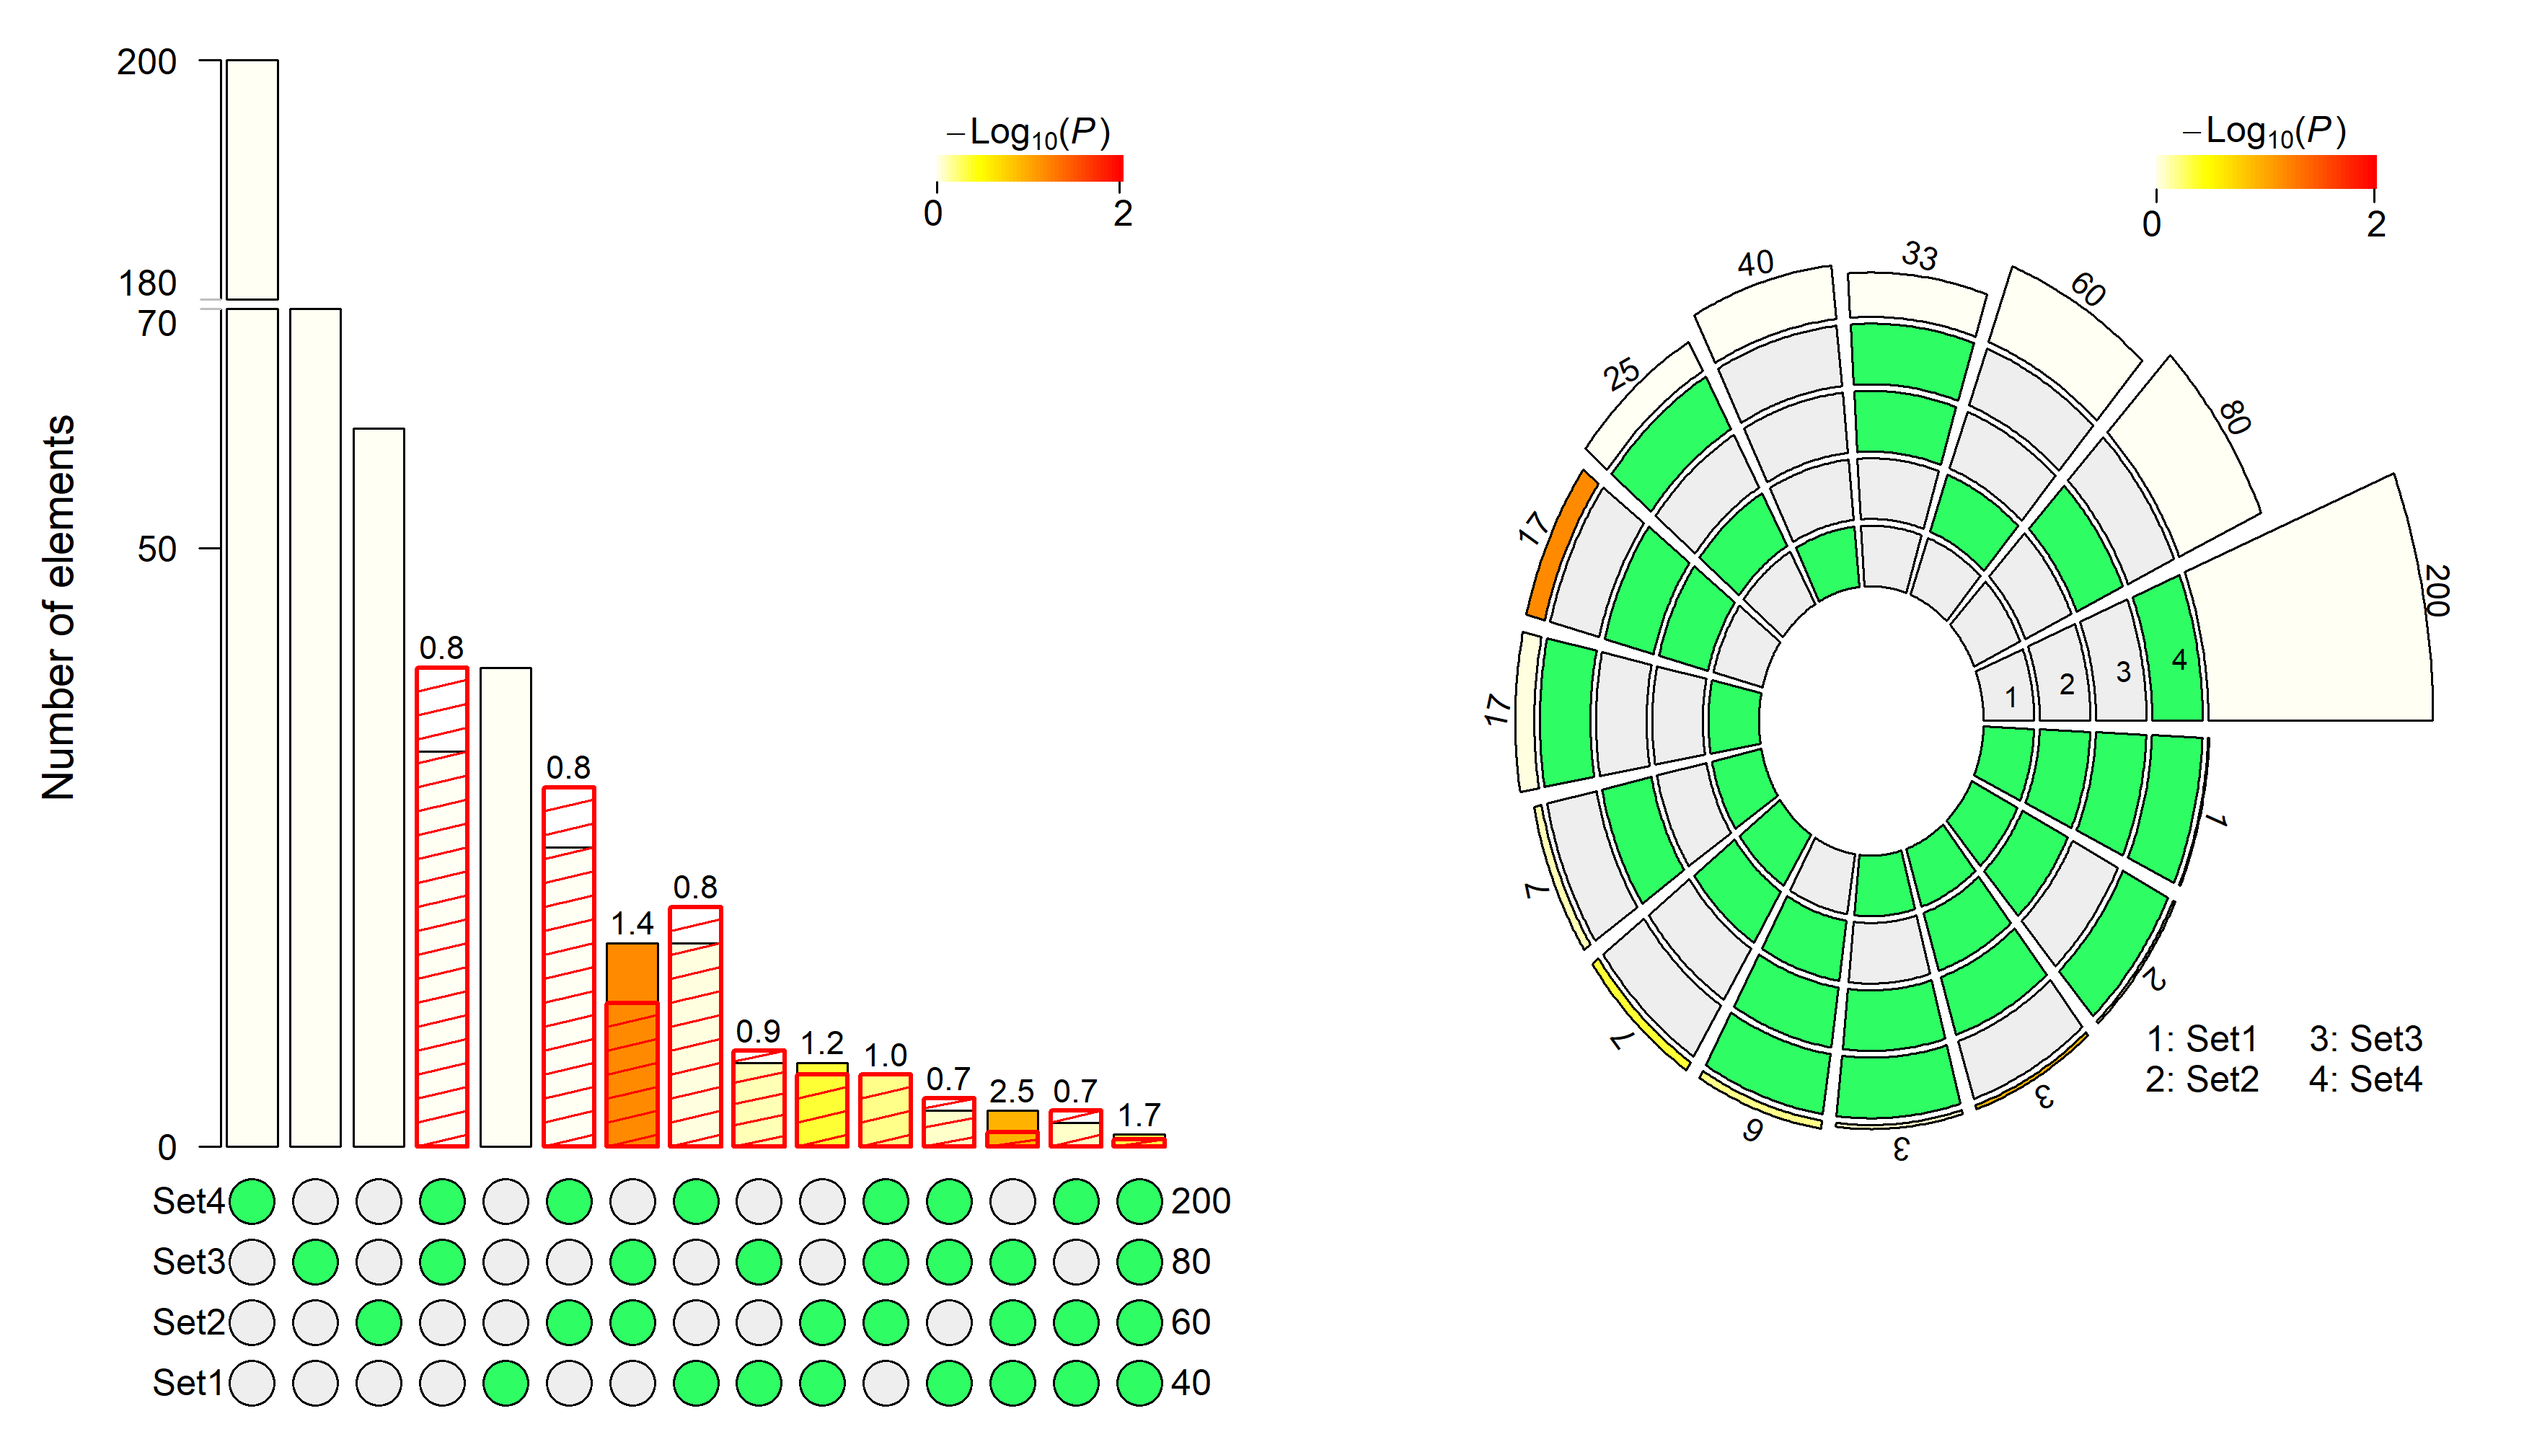
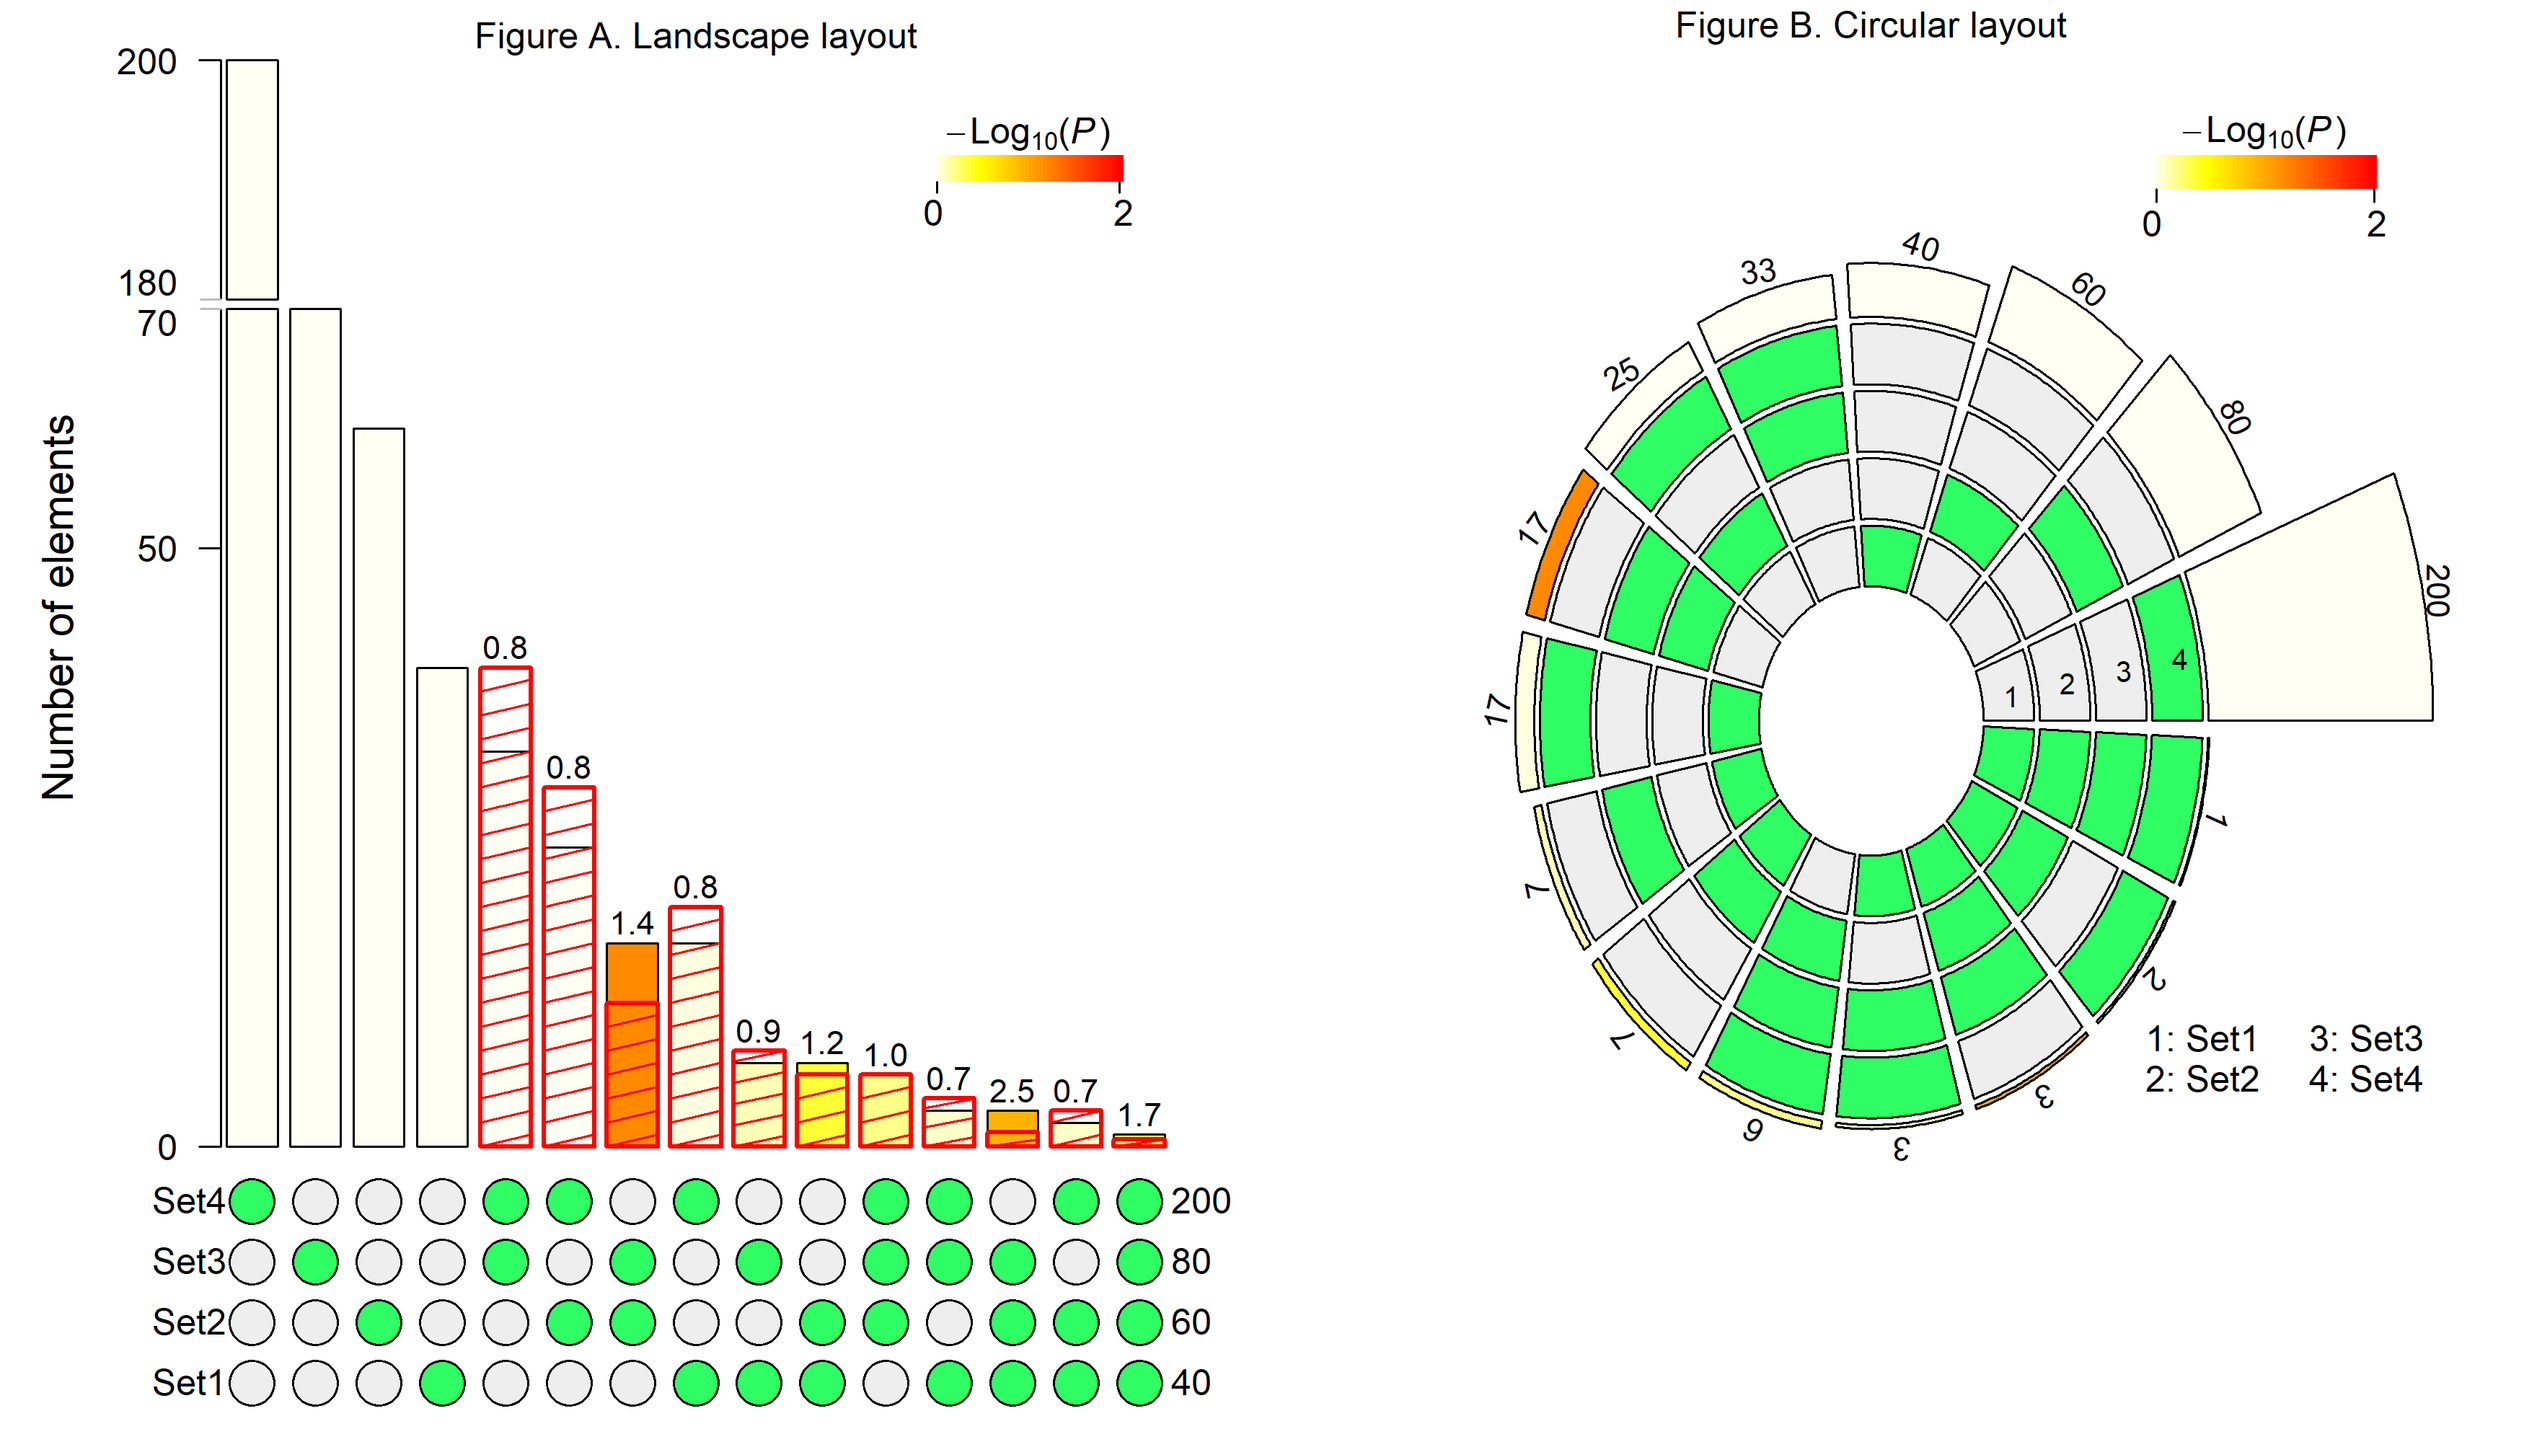
update readme to show example with plot title

diff --git a/README.md b/README.md
@@ -100,14 +100,14 @@ vp2 <- viewport(layout.pos.col = 2, layout.pos.row = 1, name = "plot_right")
 vps <- vpTree(vp0, vpList(vp1, vp2))
 pushViewport(vps)
 seekViewport("plot_left")
-plot(Result, Layout="landscape", sort.by=order2, keep=FALSE,
+plot(Result, Layout="landscape", sort.by='size', keep=FALSE,
         bar.split=c(70,180), show.fold.enrichment=TRUE,
-        show.expected.overlap=TRUE,expected.overlap.style="hatchedBox",
-        color.expected.overlap='red', new.gridPage = FALSE)
+        show.expected.overlap=TRUE, expected.overlap.style="hatchedBox",
+        color.expected.overlap='red', title = 'Figure A. Landscape layout', new.gridPage = FALSE)
 seekViewport("plot_right")
-plot(Result, Layout="circular", sort.by=order2, keep=FALSE,
+plot(Result, Layout="circular", sort.by='size', keep=FALSE,
         show.expected.overlap=TRUE,expected.overlap.style="hatchedBox",
-        color.expected.overlap='red', new.gridPage = FALSE)
+        color.expected.overlap='red', title = 'Figure B. Circular layout', new.gridPage = FALSE)
 #dev.off()
 ```
 <img src="examples/ex5.png" width="800" alt="sample output" />
